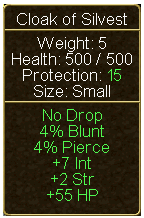
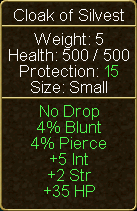
Added New Images, updated Silvest Armors.

diff --git a/silvestValley.html b/silvestValley.html
@@ -313,6 +313,14 @@
                     <p><a href="#forThoseWhoAreBrave"><span class="num-color-teal">12.</span> William the Young</a></p>
                     <img class="npc-img" src="Images/SilvestValley/For_Those_Who_Are_Brave_William_The_Young.png" alt="William the Young">  
                   </div>
+                  <div>
+                    <p><a href="#supplyProblems"><span class="num-color-teal">13.</span> Commander Garwyk</a></p>
+                    <img class="npc-img" src="Images/SilvestValley/Supply_Problems_Commander_Garwyk.png" alt="Commander Garwyk">  
+                  </div>
+                  <div>
+                    <p><a href="#gemThieves"><span class="num-color-teal">14.</span> Dalvon Miner</a></p>
+                    <img class="npc-img" src="Images/Krythan/Gem_Thieves_Dalvon_Miner.png" alt="Dalvon Miner">  
+                  </div>
 
                 </div> 
                 <hr>
@@ -649,10 +657,10 @@
                         <span class="green">QUEST RECEIVED:</span><span class="red"> Join Forces</span><span class="orange">, You leave Silvest with Raglnak's practice sword. Use it to kill one Sanke, one Kobold, and one Orc Renegade.</span>
                         <hr>
                       </p>
-                    <p class="clearfix">    
-                        <img class="npc-img" src="Images/NPC/Monsters/Snake.png" alt="Snake">
-                        <img class="npc-img" src="Images/NPC/Monsters/Kobold.png" alt="Kobold">
-                        <img class="npc-img" src="Images/NPC/Monsters/Orc_Renegade.png" alt="Orc Renegade">
+                    <p class="clearfix">   
+                      <img class="monster-img" src="Images/NPC/Monsters/Snake.png" alt="Snake" tabindex="0" data-container="body" data-toggle="popover" data-trigger="focus" data-placement="bottom" data-html="true" data-content="<img class='popover-img' src='Images/NPC/Monsters/Snake_Stats.png' alt='Snake Stats'>"> 
+                      <img class="monster-img" src="Images/NPC/Monsters/Kobold.png" alt="Kobold" tabindex="0" data-container="body" data-toggle="popover" data-trigger="focus" data-placement="bottom" data-html="true" data-content="<img class='popover-img' src='Images/NPC/Monsters/Kobold_Stats.png' alt='Kobold Stats'>"> 
+                      <img class="monster-img" src="Images/NPC/Monsters/Orc_Renegade.png" alt="Orc Renegade" tabindex="0" data-container="body" data-toggle="popover" data-trigger="focus" data-placement="bottom" data-html="true" data-content="<img class='popover-img' src='Images/NPC/Monsters/Orc_Renegade_Stats.png' alt='Orc Renegade Stats'>">   
                         Head out of town there are plenty of <span class="red">Snakes</span> around Silvest. The <span class="red">Kobolds</span> are northeast of silvest around the mountain towards Silvest Lake. The <span class="red">Orc Renegades</span> are located in a cave in the southern mountains. Head south to the docks then continue east following the mountain north to the cave.  
                         As you kill each type you will be updated.
                         <br>
@@ -743,9 +751,9 @@
                         <span class="green">QUEST RECEIVED:</span><span class="red"> Put Them Down</span><span class="orange">, Slay 50 Sonic Flyers for Jodrich of Silvest.</span>
                         <hr>
                     </p>
-                    <p class="clearfix">   
-                      <img class="npc-img" src="Images/NPC/Monsters/Sonic_Flyer.png" alt="Sonic Flyer">
-                        The <span class="red">Sonic Flyers</span> spawn near the east side of Sivlest near the mountain range. As you slay them your will be updated.
+                    <p class="clearfix"> 
+                      <img class="monster-img" src="Images/NPC/Monsters/Sonic_Flyer.png" alt="Sonic Flyer" tabindex="0" data-container="body" data-toggle="popover" data-trigger="focus" data-placement="bottom" data-html="true" data-content="<img class='popover-img' src='Images/NPC/Monsters/Sonic_Flyer_Stats.png' alt='Sonic Flyer Stats'>">     
+                        The <span class="red">Sonic Flyers</span> spawn near the east side of Sivlest near the mountain range. As you slay them you will be updated.
                          <br>
                          <span class="green">QUEST UPDATE: You have killed 50 Sonic Flyers for Jodrich!</span> When you have killed them all you will be updated one last time.
                          <br>
@@ -827,8 +835,8 @@
                         <span class="green">QUEST RECEIVED:</span><span class="red"> Nest of Pests</span><span class="orange">, Exterminate 100 Fire Ants for Howard Kaps, a concerned citizen of Silvest.</span>
                         <hr>
                     </p>
-                    <p class="clearfix">    
-                      <img class="npc-img" src="Images/NPC/Monsters/Fire_Ant.png" alt="Fire Ant">
+                    <p class="clearfix">   
+                      <img class="monster-img" src="Images/NPC/Monsters/Fire_Ant.png" alt="Fire Ant" tabindex="0" data-container="body" data-toggle="popover" data-trigger="focus" data-placement="bottom" data-html="true" data-content="<img class='popover-img' src='Images/NPC/Monsters/Fire_Ant_Stats.png' alt='Fire Ant Stats'>">     
                         Travel northeast to the <span class="red">Fire Ant</span> mound. You need to kill them within the area of their mound. As you are killing them you will be updated. 
                         <br>
                         <span class="green">QUEST UPDATE: You've killed 100 Fire Ants for Howard Kaps</span>
@@ -910,7 +918,7 @@
                     </p>
                     <p class="clearfix">    
                       <img class="npc-img img-map-height" src="Images/SilvestValley/The_Wrong_Crowd_Cultist_Lair_Map_Location.png" alt="Cultist Lair">
-                        <img class="npc-img" src="Images/NPC/Monsters/Cultist.png" alt="Cultist">
+                      <img class="monster-img" src="Images/NPC/Monsters/Cultist.png" alt="Cultist" tabindex="0" data-container="body" data-toggle="popover" data-trigger="focus" data-placement="bottom" data-html="true" data-content="<img class='popover-img' src='Images/NPC/Monsters/Cultist_Stats.png' alt='Cultist Stats'>">
                         The <span class="red">Cultist</span> lair is just west of Silvest. When you get their just kill them until you find the ring. As you kill them you will be updated that you didn't find the ring. <span class="light-blue">You search the body, but don't find anything.</span> When you find the key you will be updated.
                         <br>
                         <span class="green">QUEST UPDATE:</span><span class="red"> The Wrong Crowd</span><span class="orange">, You fond the Kaps family ring! Return to Howard Kaps.</span>
@@ -1183,7 +1191,7 @@
                         <hr>                        
                     </p>
                     <p class="clearfix"> 
-                        <img class="npc-img" src="Images/NPC/Monsters/Cave_Slug.png" alt="Cave Slug"> 
+                        <img class="monster-img" src="Images/NPC/Monsters/Cave_Slug.png" alt="Cave Slug" tabindex="0" data-container="body" data-toggle="popover" data-trigger="focus" data-placement="bottom" data-html="true" data-content="<img class='popover-img' src='Images/NPC/Monsters/Cave_Slug_Stats.png' alt='Cave Slug Stats'>">
                         Head in to the cave and kill the 40 <span class="red">Cave Slugs</span>. As you are killing them you will be updated.
                         <br>
                         <span class="green">QUEST UPDATE: You have killed 40 Cave Slugs for Sozal!</span> 
@@ -1200,7 +1208,7 @@
                         <hr>
                     </p>
                     <p class="clearfix">
-                      <img class="npc-img" src="Images/NPC/Monsters/Cave_Spider.png" alt="Cave Spider">
+                      <img class="monster-img" src="Images/NPC/Monsters/Cave_Spider.png" alt="Cave Spider" tabindex="0" data-container="body" data-toggle="popover" data-trigger="focus" data-placement="bottom" data-html="true" data-content="<img class='popover-img' src='Images/NPC/Monsters/Cave_Spider_Stats.png' alt='Cave Spider Stats'>">
                         Head in to the cave and kill the 50 <span class="red">Cave Spiders</span>. As you are killing them you will be updated.
                         <br>
                         <span class="green">QUEST UPDATE: You have killed 50 Cave Spiders for Sozal!</span> 
@@ -1279,7 +1287,7 @@
                         <hr>
                     </p>
                     <p class="clearfix">    
-                      <img class="npc-img" src="Images/NPC/Monsters/Kobold.png" alt="Kobold">
+                      <img class="monster-img" src="Images/NPC/Monsters/Kobold.png" alt="Kobold" tabindex="0" data-container="body" data-toggle="popover" data-trigger="focus" data-placement="bottom" data-html="true" data-content="<img class='popover-img' src='Images/NPC/Monsters/Kobold_Stats.png' alt='Kobold Stats'>">
                       Head east to the lake and kill 50 <span class="red">Kobolds</span>. As you are killing them you will be updated.
                       <br>
                       <span class="green">QUEST UPDATE: You have kill 50 Kobolds for Karter Jons</span>
@@ -1358,8 +1366,8 @@
                         <hr>
                       </p>
                     <p class="clearfix">
-                          <img class="npc-img" src="Images/NPC/Monsters/Kobold_Brigand.png" alt="Kobold Brigand"> 
-                          Head east to the lake and kill <span class="red">Kobold Brigands</span>. As you are killing them you will get messages.
+                      <img class="monster-img" src="Images/NPC/Monsters/Kobold_Brigand.png" alt="Kobold Brigand" tabindex="0" data-container="body" data-toggle="popover" data-trigger="focus" data-placement="bottom" data-html="true" data-content="<img class='popover-img' src='Images/NPC/Monsters/Kobold_Brigand_Stats.png' alt='Kobold Brigand Stats'>">
+                      Head east to the lake and kill <span class="red">Kobold Brigands</span>. As you are killing them you will get messages.
                       <br>
                       <span class="light-blue">You don't seem to find anything that Karter Jons could use...</span>
                       <br>
@@ -1639,7 +1647,7 @@
                       </p>
                     <p class="clearfix">
                           <img class="npc-img img-map-height" src="Images/SilvestValley/For_Those_Who_Are_Brave_Silvest_Mine.png" alt="Silvest Mine"> 
-                          <img class="monster-img" src="Images/NPC/Monsters/Skeleton_Warrior.png" alt="Skeleton Warrior"> 
+                          <img class="monster-img" src="Images/NPC/Monsters/Skeleton_Warrior.png" alt="Skeleton Warrior" tabindex="0" data-container="body" data-toggle="popover" data-trigger="focus" data-placement="bottom" data-html="true" data-content="<img class='popover-img' src='Images/NPC/Monsters/Skeleton_Warrior_Stats.png' alt='Skeleton Warrior Stats'>">
                           <br>
                          Go north to the Silvest mines. There are <span class="light-red">Skeleton Warriors</span> you will have to confront. Follow the map to find the location of Struglar. Struglar has been killed and you find his remains. <img class="npc-img" src="Images/SilvestValley/For_Those_Who_Are_Brave_Struglar_Dead_Body.png" alt="Struglar Dead Body"> 
                          <br>
@@ -2063,8 +2071,8 @@
                         <p>You seek to know your duty to others. You will never make it as a wizard that way. You answer to none! Follow your own destiny! I shall give you a task that will remind you of the dangers of falling into the power of another's persuasion... I shall give you a wand. Use it to hunt. It shall add to your power...</p>
                     </p>
                    <p class="clearfix">  
-                      <img class="npc-img" src="Images//NPC/Monsters/Cultist.png" alt="Cultist">
-                        Head out to the west of silvest to the Cultist fort. Kill 40 <span class="light-red">cultist</span> while the Wand of Expansion is equipped. You will be updated as you kill them <span class="green">QUEST UPDATE: you have killed 40 Cultists for Nova the Wizard.</span> When you have kill 40 return to Nova to be rewarded. 
+                    <img class="monster-img" src="Images/NPC/Monsters/Cultist.png" alt="Cultist" tabindex="0" data-container="body" data-toggle="popover" data-trigger="focus" data-placement="bottom" data-html="true" data-content="<img class='popover-img' src='Images/NPC/Monsters/Cultist_Stats.png' alt='Cultist Stats'>">
+                      Head out to the west of silvest to the Cultist fort. Kill 40 <span class="light-red">cultist</span> while the Wand of Expansion is equipped. You will be updated as you kill them <span class="green">QUEST UPDATE: you have killed 40 Cultists for Nova the Wizard.</span> When you have kill 40 return to Nova to be rewarded. 
                     </p>
                     <span class="green">QUEST RECEIVED:</span><span class="red"> Disciple of Mind</span><span class="orange">, Return to nova in the Silvest Library!</span>
                     <p>    
@@ -2075,7 +2083,7 @@
                       <p>You wish to know things that are not for you to know! You must watch yourself lest you fall on the same path as the fallen Rune Warriors... you shall study the ways of the marsh light; it leads many astray. I shall give you a wand. use it to hunt. It shall add to your power...</p>
                     </p>
                     <p class="clearfix">
-                      <img class="npc-img" src="Images/Valinor/Monsters/Marsh_Light.png" alt="Marsh Light">
+                      <img class="monster-img" src="Images/NPC/Monsters/Marsh_Light.png" alt="Marsh Light" tabindex="0" data-container="body" data-toggle="popover" data-trigger="focus" data-placement="bottom" data-html="true" data-content="<img class='popover-img' src='Images/NPC/Monsters/Marsh_Light_Stats.png' alt='Marsh Light Stats'>">
                         Head to the north east of Silvest to Kobold Lake to find the marsh lights. Kill 40 <span class="light-red">marsh lights</span> while the Wand of Expansion is equipped. You will be updated as you kill them <span class="green">QUEST UPDATE: you have killed 40 Marsh Lights for Nova the Wizard.</span> When you have kill 40 return to Nova to be rewarded. 
                     </p>
                     <span class="green">QUEST RECEIVED:</span><span class="red"> Disciple of Mind</span><span class="orange">, Return to nova in the Silvest Library!</span>
@@ -2088,7 +2096,7 @@
                     </p>                    
                     <br>
                     <p class="clearfix">
-                      <img class="npc-img" src="Images/NPC/Monsters/Orc_Renegade.png" alt="Orc Renegade">                    
+                      <img class="monster-img" src="Images/NPC/Monsters/Orc_Renegade.png" alt="Orc Renegade" tabindex="0" data-container="body" data-toggle="popover" data-trigger="focus" data-placement="bottom" data-html="true" data-content="<img class='popover-img' src='Images/NPC/Monsters/Orc_Renegade_Stats.png' alt='Orc Renegade Stats'>">
                       Head south of Silvest around the moutain to the east to the cave. Kill 40 <span class="light-red">Orc Renegade</span>  while the Wand of Expansion is equipped. You will be updated as you kill them <span class="green">QUEST UPDATE: you have killed 40 Orc Renegades for Nova the Wizard.</span> When you have kill 40 return to Nova to be rewarded. 
                     </p>
                     <span class="green">QUEST RECEIVED:</span><span class="red"> Disciple of Mind</span><span class="orange">, Return to nova in the Silvest Library!</span>
@@ -2176,7 +2184,7 @@
                     <span class="green">QUEST UPDATE:</span><span class="red"> A Wicked Wand</span><span class="orange">, Val advised you to use the Wicked Looking Wand to slay 40 Thieves.</span>
                     <hr>
                     <p class="clearfix">
-                      <img class="npc-img" src="Images/NPC/Monsters/Thief.png" alt="Thief">  
+                      <img class="monster-img" src="Images/NPC/Monsters/Thief.png" alt="Thief" tabindex="0" data-container="body" data-toggle="popover" data-trigger="focus" data-placement="bottom" data-html="true" data-content="<img class='popover-img' src='Images/NPC/Monsters/Thief_Stats.png' alt='Thief Stats'>">
                         Head out to the west of silvest to the forest. Kill 40 <span class="light-red">Thieves</span> while the Wicked Looking Wand is equipped. You will be updated as you kill them <span class="green">QUEST UPDATE: you have killed 40 Thieves for Val Clockworks!</span> When you have kill 40 return to Nova to be rewarded. 
                     </p>
                     <span class="green">QUEST UPDATE:</span><span class="red"> A Wicked Wand</span><span class="orange">, Your mission complete, you must now return to Petrim the Peculiar in Silvest</span>
@@ -2259,7 +2267,7 @@
                        
                     </p>
                     <p class="clearfix">
-                      <img class="npc-img" src="Images/NPC/Monsters/Skeleton_Warrior.png" alt="Skeleton Warrior">
+                      <img class="monster-img" src="Images/NPC/Monsters/Skeleton_Warrior.png" alt="Skeleton Warrior" tabindex="0" data-container="body" data-toggle="popover" data-trigger="focus" data-placement="bottom" data-html="true" data-content="<img class='popover-img' src='Images/NPC/Monsters/Skeleton_Warrior_Stats.png' alt='Skeleton Warrior Stats'>">
                       Go north in to the cave and banish the Skeleton Warriors. Kill 40 <span class="light-red">Skeleton Warriors</span> while the Staff of Songs is equipped. you will be updated as you kill them <span class="green">QUEST UPDATE: you have killed 40 Skeleton Warriors for Maylee Runesong!</span> When you have killed 40 return to Maylee Runesong to be rewarded. 
                     </p>
                     <span class="green">QUEST UPDATE:</span><span class="red"> Lift Their Spirts</span><span class="orange">, The undead have been banished from the mines. Return to Maylee Runesong in Cliffside!.</span>
@@ -2455,7 +2463,7 @@
                     <p class="clearfix">
                       <span class="light-blue">OPTION: 1</span>
                       <br>
-                      <img class="npc-img" src="Images/NPC/Monsters/Warg.png" alt="Warg">
+                      <img class="monster-img" src="Images/NPC/Monsters/Warg.png" alt="Warg" tabindex="0" data-container="body" data-toggle="popover" data-trigger="focus" data-placement="bottom" data-html="true" data-content="<img class='popover-img' src='Images/NPC/Monsters/Warg_Stats.png' alt='Warg Stats'>">
                       Do stop truckling about. Only a great fool would spout such nonsense! You waste my time! Therefore, you shall fight an abomination alike your request... The warg. Use this wand to practice your spellcasting. Hunt a good number of wargs. Study their ways, and become wise!
                       <br>
                       <span class="green">QUEST RECEIVED:</span><span class="red"> Disciple of Body</span><span class="orange">, Hunt 40 Warg with the Ivory Wand given to you by the witch Treba near varg..</span>
@@ -2468,7 +2476,7 @@
                     <p class="clearfix">
                       <span class="light-blue">OPTION: 2</span>
                       <br>
-                      <img class="npc-img" src="Images/NPC/Monsters/Skeleton.png" alt="Skeleton">
+                      <img class="monster-img" src="Images/NPC/Monsters/Skeleton.png" alt="Skeleton" tabindex="0" data-container="body" data-toggle="popover" data-trigger="focus" data-placement="bottom" data-html="true" data-content="<img class='popover-img' src='Images/NPC/Monsters/Skeleton_Stats.png' alt='Skeleton Stats'>">
                       You must time your healing spells and pay attention to your stamina! Don't be brave. Heal before it's to late... You shall fight the undead; they waited too long to heal... Use this wand to practice your spellcasting. Study their ways, and become wise!
                       <br>
                       <span class="green">QUEST RECEIVED:</span><span class="red"> Disciple of Body</span><span class="orange">, Hunt 40 Skeletons with the Ivory Wand given to you by the witch Treba near varg..</span>
@@ -2481,7 +2489,7 @@
                     <p class="clearfix">
                       <span class="light-blue">OPTION: 3</span>
                       <br>
-                      <img class="npc-img" src="Images/NPC/Monsters/Small_Grizzly_Bear.png" alt="Small Grizzly Bear">
+                      <img class="monster-img" src="Images/NPC/Monsters/Small_Grizzly_Bear.png" alt="Small Grizzly Bear" tabindex="0" data-container="body" data-toggle="popover" data-trigger="focus" data-placement="bottom" data-html="true" data-content="<img class='popover-img' src='Images/NPC/Monsters/Small_Grizzly_Bear_Stats.png' alt='Small Grizzly Bear Stats'>">
                       A trick question! You should always cast spells that will protect you. But a good offense is just as good as a well prepared defense. Always use whatever is available to you - and do not neglect to refresh them. You shallfight grizzly bears; a resourceful, strong, fierce creature! Use this wand to practice your spellcasting. Hunt a good number of Small Grizzly Bears. Study their ways, and become wise!
                       <br>
                       <span class="green">QUEST RECEIVED:</span><span class="red"> Disciple of Body</span><span class="orange">, Hunt 40 Small Grizzly Bears with the Ivory Wand given to you by the witch Treba near varg..</span>
@@ -2570,7 +2578,7 @@
                       <hr>
                     </p>
                     <p class="clearfix">
-                      <img class="npc-img" src="Images/NPC/Monsters/Skeletal_Pup.png" alt="Skeletal Pup">
+                      <img class="monster-img" src="Images/NPC/Monsters/Skeletal_Pup.png" alt="Skeleton" tabindex="0" data-container="body" data-toggle="popover" data-trigger="focus" data-placement="bottom" data-html="true" data-content="<img class='popover-img' src='Images/NPC/Monsters/Skeletal_Pup_Stats.png' alt='Skeletal Pup Stats'>">
                       Head west from fort Eastwatch to the south edge of the moutain range to find the <span class="light-red">undead</span> while the Hollow Wand is equipped. You will be updated as you kill them <span class="green">QUEST UPDATE: You have captured 100 weak souls for Kerrigon the Dark!</span> When you have captured 100 return to Kerrigon the Dark to be rewarded. 
                       <br>
                       <span class="green">QUEST UPDATE:</span><span class="red"> Mend or Melt</span><span class="orange">, You have captured 100 souls in the Hollow Wand! Return to Kerrigon in Eastwatch!</span>
